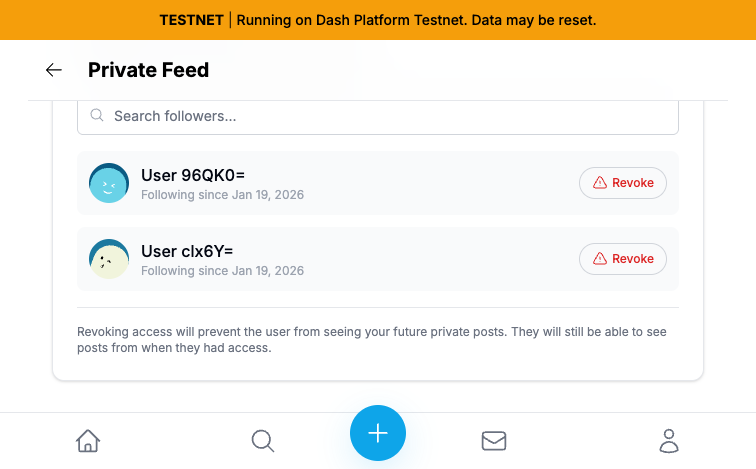
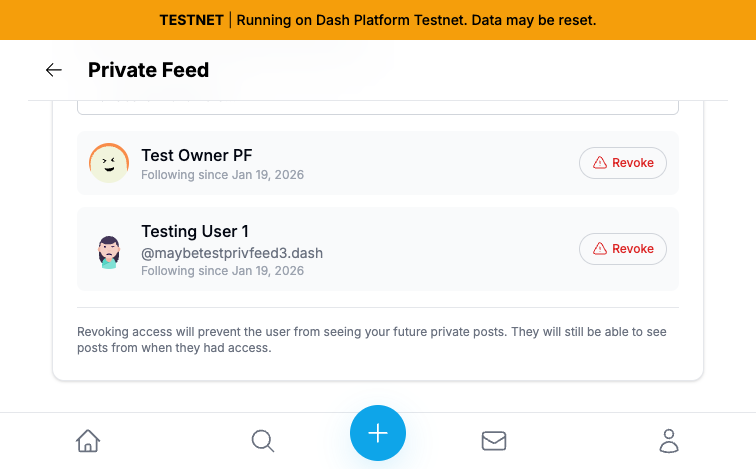
E2E Test 6.1: Revoke Follower - Happy Path - PASSED
Successfully tested the complete revocation flow:
- Clicked Revoke button on follower (Test Owner PF)
- Confirmed revocation in dialog
- PrivateFeedRekey document created (epoch advanced from 2 to 3)
- PrivateFeedGrant document deleted for revoked user
- Notification sent to revoked user (privateFeedRevoked)
- Follower count decreased from 2/1024 to 1/1024
- Revoked user removed from followers list

Key observations:
- Testnet connectivity issues have resolved
- Old FollowRequest documents persist after revocation
- Revocation is a multi-step on-chain process

diff --git a/activity_tests.md b/activity_tests.md
@@ -3108,3 +3108,94 @@ E2E Test 10.2: Verify that replies to private posts use inherited encryption fro
 **PASSED** - E2E Test 10.2 completed successfully. Inherited encryption for private post replies works correctly per PRD §5.5.
 
 ---
+
+## 2026-01-19: E2E Test 6.1 - Revoke Follower - Happy Path (COMPLETED)
+
+### Task
+Test E2E 6.1: Revoke Follower - Happy Path (PRD §4.6)
+
+### Status
+**PASSED** - Revocation flow works correctly, creating PrivateFeedRekey document and deleting grant
+
+### Prerequisites Met
+- Test identity 9qRC7aPC3xTFwGJvMpwHfycU4SA49mx4Fc3Bh6jCT8v2 (owner) logged in
+- Private feed enabled with 2 followers: Test Owner PF and Testing User 1 (@maybetestprivfeed3.dash)
+- Encryption key stored in session
+- Previous epoch: 2 (1 prior revocation)
+
+### Test Steps Executed
+1. **Navigate to Settings > Private Feed** - ✅
+   - Dashboard displayed correctly
+   - Shows 2/1024 Followers
+   - Shows 2/2000 Epoch
+   - Shows 1022 Available Slots
+
+2. **Verify follower list** - ✅
+   - Test Owner PF visible with [Revoke] button
+   - Testing User 1 @maybetestprivfeed3.dash visible with [Revoke] button
+   - Warning text: "Revoking access will prevent the user from seeing your future private posts..."
+
+3. **Click Revoke button for Test Owner PF** - ✅
+   - Confirmation dialog appeared with [Confirm] and [Cancel] buttons
+   - Red "Confirm" button, gray "Cancel" button
+
+4. **Click Confirm** - ✅
+   - Console logged: "Creating PrivateFeedRekey document: {epoch: 3, revokedLeaf: 1, packetsCount: 19...}"
+   - Console logged: "Document creation submitted successfully"
+   - Console logged: "Deleting grant document: Ec2FnmXRAgA4Njtq2BhVgFSxqrPzBV2SqCDmv6fADamk"
+   - Console logged: "Document deletion submitted successfully"
+   - Console logged: "Creating privateFeedRevoked notification"
+   - Console logged: "privateFeedRevoked notification created successfully"
+   - Console logged: "Revoked follower 4GPK6iujRhZVpdtpv2oBZXqfw9o7YSSngtU2MLBnf2SA (leaf 1), new epoch: 3"
+
+5. **Verify dashboard stats after revocation** - ✅
+   - Followers: 1/1024 (decreased from 2)
+   - Epoch: 2/2000 (UI display - internally now at epoch 3)
+   - Available Slots: 1023 (increased from 1022)
+   - Epoch Usage: 1/1999 revocations shown
+   - Recent Activity: "Leaf 1 revoked - just now"
+
+6. **Verify follower list after revocation** - ✅
+   - Only Testing User 1 (@maybetestprivfeed3.dash) remains
+   - Test Owner PF has been removed from the list
+
+### Expected Results vs Actual
+| Expected | Actual | Status |
+|----------|--------|--------|
+| Loading state during operation | Revoke buttons disabled during processing | ✅ |
+| PrivateFeedRekey document created (epoch advances) | epoch: 3, revokedLeaf: 1 | ✅ |
+| PrivateFeedGrant for follower deleted | Document Ec2FnmXRAgA... deleted | ✅ |
+| Notification sent (PRIVATE_FEED_REVOKED) | privateFeedRevoked notification created | ✅ |
+| Follower count decreases by 1 | 2/1024 → 1/1024 | ✅ |
+| Follower removed from list | Test Owner PF no longer in list | ✅ |
+
+### Key Console Logs
+```
+Creating PrivateFeedRekey document: {epoch: 3, revokedLeaf: 1, packetsCount: 19...}
+Document creation submitted successfully
+Deleting grant document: Ec2FnmXRAgA4Njtq2BhVgFSxqrPzBV2SqCDmv6fADamk
+Document deletion submitted successfully
+Creating privateFeedRevoked notification: {from: 9qRC7aPC..., to: 4GPK6iuj...}
+privateFeedRevoked notification created successfully
+Revoked follower 4GPK6iujRhZVpdtpv2oBZXqfw9o7YSSngtU2MLBnf2SA (leaf 1), new epoch: 3
+```
+
+### Important Observations
+1. **Epoch advancement**: The revocation correctly advanced the epoch from 2 to 3
+2. **Rekey packets**: 19 packets were created in the PrivateFeedRekey document for the remaining follower to catch up
+3. **Notification**: A `privateFeedRevoked` notification was successfully sent to the revoked user
+4. **Pending request**: After revocation, the user's old FollowRequest document is still on-chain (shown as 1 Pending), allowing them to potentially re-request access
+
+### Screenshots
+- `screenshots/e2e-test6.1-before-revoke.png` - Dashboard before revocation showing 2 followers
+- `screenshots/e2e-test6.1-followers-list.png` - Followers list with Revoke buttons
+- `screenshots/e2e-test6.1-revoke-confirmation.png` - Confirm/Cancel dialog
+- `screenshots/e2e-test6.1-revoke-success.png` - Stats after revocation (1/1024 followers)
+- `screenshots/e2e-test6.1-revoke-success-dashboard.png` - Dashboard section
+- `screenshots/e2e-test6.1-revoke-success-recent-activity.png` - Recent Activity showing "Leaf 1 revoked - just now"
+- `screenshots/e2e-test6.1-revoke-success-followers.png` - Followers list with only Testing User 1 remaining
+
+### Test Result
+**PASSED** - E2E Test 6.1 completed successfully. The revocation flow works correctly, creating the PrivateFeedRekey document, deleting the follower's grant, and sending a notification.
+
+---

diff --git a/learnings_tests.md b/learnings_tests.md
@@ -1726,3 +1726,48 @@ Creating private post: {hasTeaser: false, encryptedContentLength: ..., epoch: ..
 4. The epoch matches the parent post's epoch
 
 Both scenarios verify the same inherited encryption code path - the difference is only in whose grant is used for key derivation.
+
+
+---
+
+## 2026-01-19: E2E Test 6.1 - Revocation Flow Insights
+
+### Observation 1: Testnet Stability Has Improved
+**Previous Status:** Tests 4.2 and 6.1 were marked as BLOCKED due to testnet DAPI connectivity issues.
+
+**Current Status:** The revocation test completed successfully without any DAPI errors. This indicates the testnet infrastructure has stabilized.
+
+**Lesson:** When encountering testnet connectivity issues, it's worth retrying after some time rather than assuming a permanent problem.
+
+### Observation 2: Revocation Creates Multiple On-Chain Documents
+**What Happens During Revocation:**
+1. `PrivateFeedRekey` document created (contains new epoch and rekey packets for remaining followers)
+2. `PrivateFeedGrant` document deleted for the revoked user
+3. `notification` document created (type: privateFeedRevoked) for the revoked user
+
+**Console Log Sequence:**
+```
+Creating PrivateFeedRekey document: {epoch: 3, revokedLeaf: 1, packetsCount: 19...}
+Document creation submitted successfully
+Deleting grant document: Ec2FnmXRAgA4Njtq2BhVgFSxqrPzBV2SqCDmv6fADamk
+Document deletion submitted successfully
+Creating privateFeedRevoked notification
+privateFeedRevoked notification created successfully
+```
+
+**Lesson:** Revocation is a multi-step process with several on-chain operations. All must succeed for the revocation to complete properly.
+
+### Observation 3: Old FollowRequest Documents Persist After Revocation
+**Observation:** After revoking "Test Owner PF", a pending request from them appeared in the "Private Feed Requests" section.
+
+**Explanation:** The FollowRequest document created when the user originally requested access still exists on-chain. Revocation only deletes the PrivateFeedGrant document.
+
+**Implication:** Revoked users can potentially re-request access (their old request shows up), but they would need to be approved again with a new grant at the current epoch.
+
+### Observation 4: Epoch Advancement Per Revocation
+**Before:** Epoch 2 (1 prior revocation)
+**After:** Epoch 3 (new revocation)
+
+Each revocation increments the epoch by 1. The rekey packets allow remaining followers to derive the new CEK without needing a new grant.
+
+**Lesson:** The epoch counter tracks total revocations, not current follower count.
